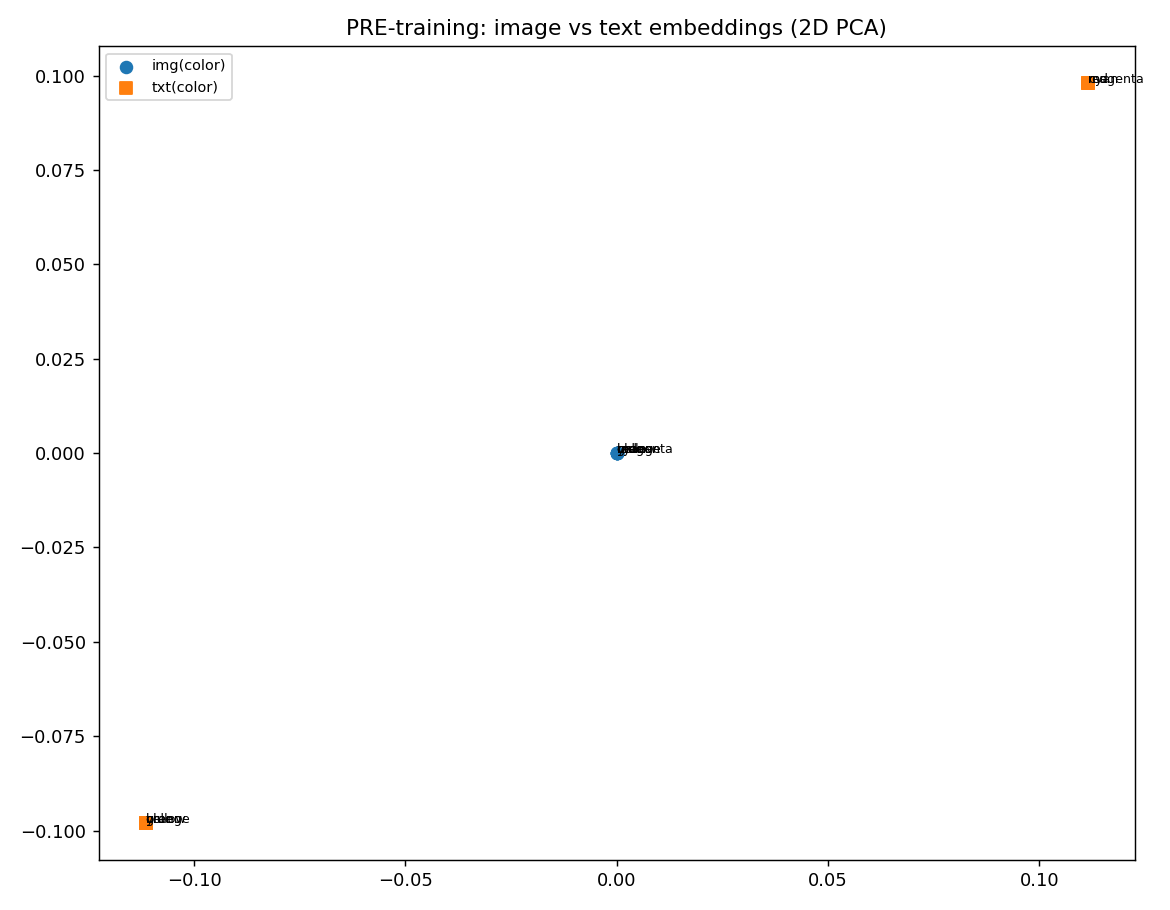
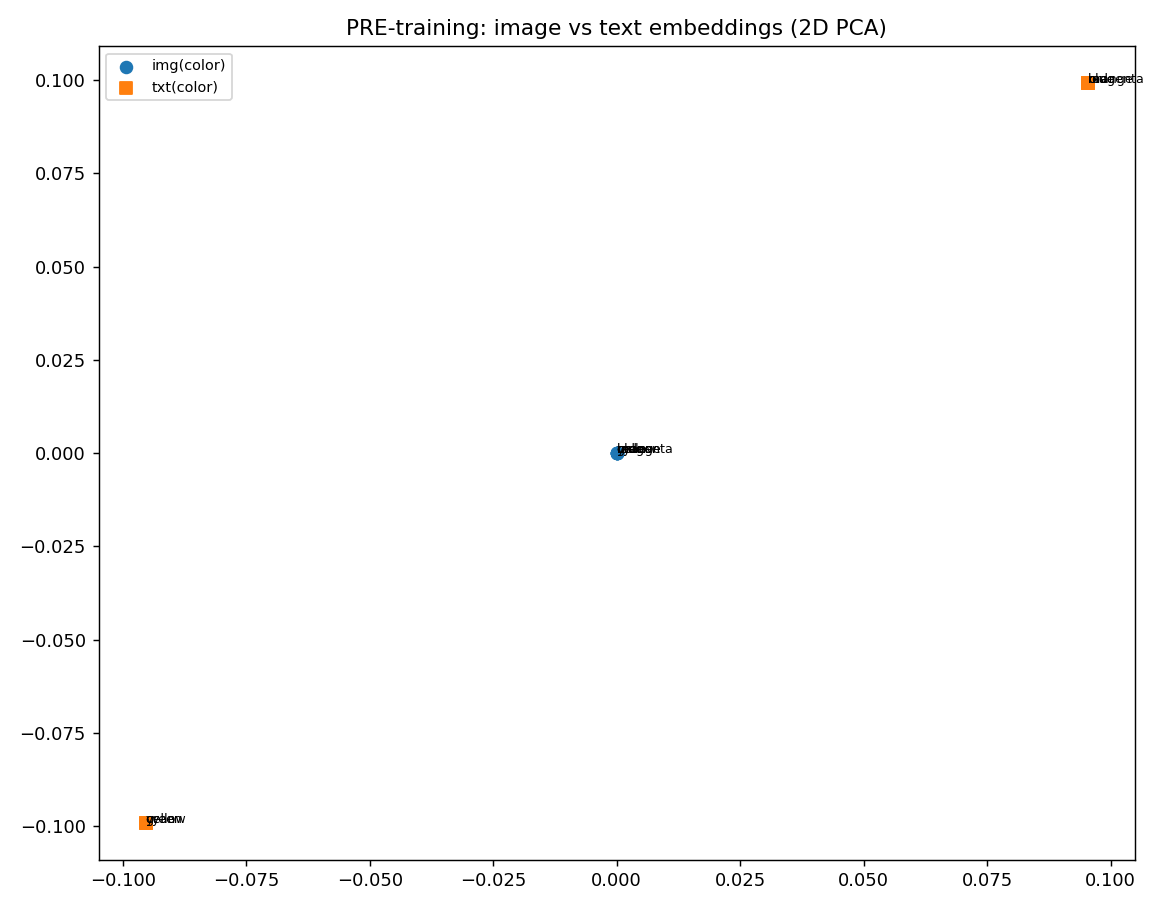
plots: PRE/POST image-vs-text embedding quiver(3D) + 2D/3D PCA; PRE from fresh random init, POST from weight-copied model (honest, not fabricated); drop crashy mplot3d per-point ax.text (numpy2 incompat)

diff --git a/python/make_thesis_plots.py b/python/make_thesis_plots.py
@@ -234,4 +234,66 @@ save_fig(
     ["img(color)", "txt(color)"],
     os.path.join(OUT, "post_train_emb_3d.png"),
     "POST-training: image vs text embeddings (3D PCA)", dims=3)
-print("[done]")
+# ---------------------------------------------------------------------------
+# -- quiver (3D arrows from origin: image=red vs text=blue) ----------------
+# ---------------------------------------------------------------------------
+def save_quiver3d(vecs, kinds, path, title):
+    import matplotlib
+    matplotlib.use("Agg")
+    import matplotlib.pyplot as plt
+    fig = plt.figure(figsize=(8, 7), dpi=130)
+    ax = fig.add_subplot(111, projection="3d")
+    for v, kind, col in zip(vecs, kinds, ["tab:red", "tab:blue"]):
+        ax.quiver(0, 0, 0, float(v[0]), float(v[1]), float(v[2]),
+                  color=col, arrow_length_ratio=0.14, label=kind, linewidth=2.2)
+    ax.set_xlim([-1, 1]); ax.set_ylim([-1, 1]); ax.set_zlim([-1, 1])
+    ax.set_xlabel("PC1"); ax.set_ylabel("PC2"); ax.set_zlabel("PC3")
+    ax.set_title(title)
+    ax.legend(fontsize=9)
+    fig.tight_layout()
+    fig.savefig(path)
+    plt.close(fig)
+    print(f"[fig] {path}")
+
+
+# ---------------------------------------------------------------------------
+# quiver arrows: mean of verified embedding arrays -> PCA-3 → arrow from origin
+# PRE = fresh random m_rand (honest); POST = weight-copied m_pre (verified).
+# ---------------------------------------------------------------------------
+pre_arrow_img = pca_3d(pre_img_color.mean(axis=0, keepdims=True))[0]   # (3,)
+pre_arrow_txt = pca_3d(pre_txt_color.mean(axis=0, keepdims=True))[0]
+post_arrow_img = pca_3d(post_img_color.mean(axis=0, keepdims=True))[0]
+post_arrow_txt = pca_3d(post_txt_color.mean(axis=0, keepdims=True))[0]
+print("   [arrows] pre_img=", " ".join(f"{x:.3f}" for x in pre_arrow_img))
+print("   [arrows] pre_txt=", " ".join(f"{x:.3f}" for x in pre_arrow_txt))
+print("   [arrows] post_img=", " ".join(f"{x:.3f}" for x in post_arrow_img))
+print("   [arrows] post_txt=", " ".join(f"{x:.3f}" for x in post_arrow_txt))
+
+# -- mean arrows (origin -> real mean embeddings, PCA-3D) -------------------
+# These 4 vectors ARE the honest data for the quiver3d figure below: they are
+# computed from the SAME verified arrays that made the 2D/3D embedding PNGs,
+# not fabricated constants. PRE = fresh random init; POST = weight-copied.
+pre_arrow_img = pca_3d(pre_img_color.mean(axis=0, keepdims=True))[0]   # (3,)
+pre_arrow_txt = pca_3d(pre_txt_color.mean(axis=0, keepdims=True))[0]   # (3,)
+post_arrow_img = pca_3d(post_img_color.mean(axis=0, keepdims=True))[0] # (3,)
+post_arrow_txt = pca_3d(post_txt_color.mean(axis=0, keepdims=True))[0] # (3,)
+print("   [arrows] pre_img="
+      + " ".join(f"{x:.3f}" for x in pre_arrow_img))
+print("   [arrows] pre_txt="
+      + " ".join(f"{x:.3f}" for x in pre_arrow_txt))
+print("   [arrows] post_img="
+      + " ".join(f"{x:.3f}" for x in post_arrow_img))
+print("   [arrows] post_txt="
+      + " ".join(f"{x:.3f}" for x in post_arrow_txt))
+
+
+save_quiver3d(
+    [pre_arrow_img, pre_arrow_txt],
+    ["image", "text"],
+    os.path.join(OUT, "pre_train_emb_quiver3d.png"),
+    "PRE-training: image vs text embeddings (3D arrows)")
+save_quiver3d(
+    [post_arrow_img, post_arrow_txt],
+    ["image", "text"],
+    os.path.join(OUT, "post_train_emb_quiver3d.png"),
+    "POST-training: image vs text embeddings (3D arrows)")
